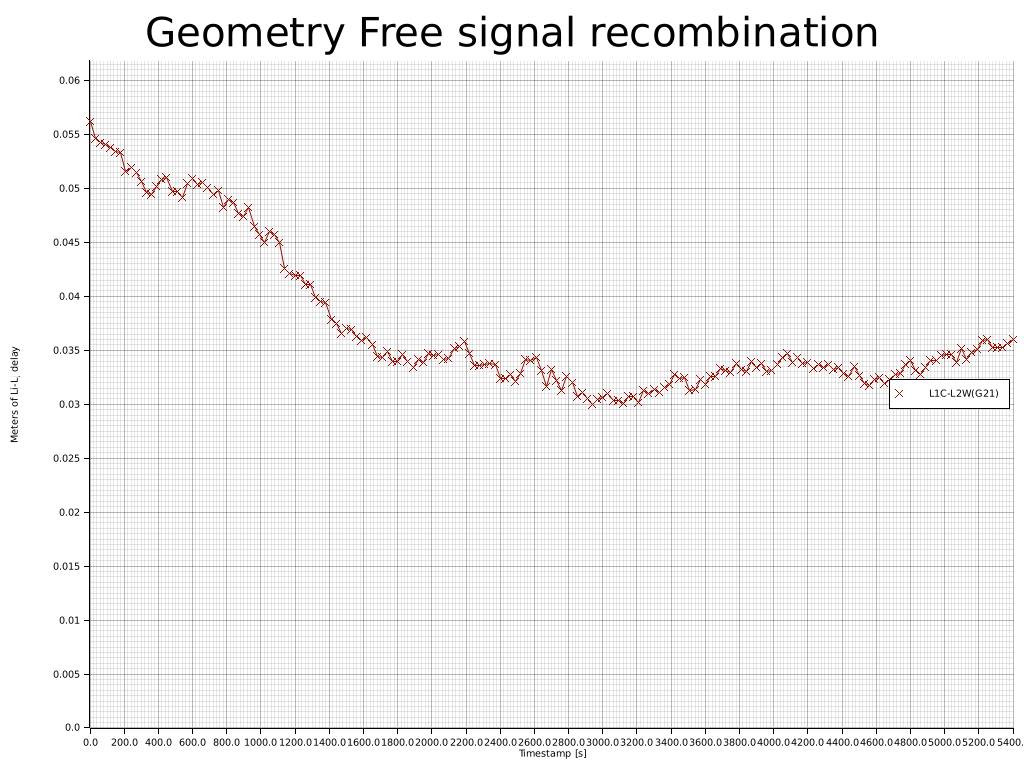
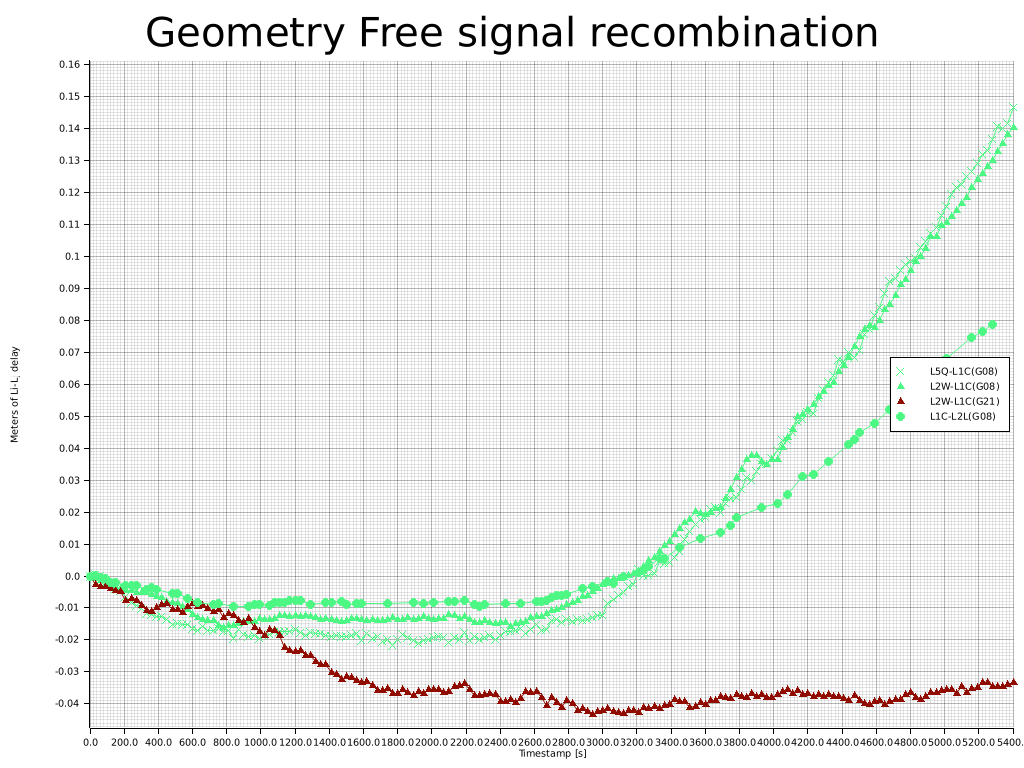
cli: documentation

Changed region(s): [[0.0625, 0.0625, 1.0, 0.9688]]

diff --git a/rinex-cli/README.md b/rinex-cli/README.md
@@ -51,7 +51,13 @@ Plots currently come in the form of PNG files.
 Efficient plotting is tied to efficient data filtering and resampling,
 because RINEX files contain a lot of data.
 
+Example of received signal power analysis:
+
 <img align="center" width="650" src="https://github.com/gwbres/rinex/blob/main/doc/plots/esbc00dnk_glo_ssi.png">
+
+Data is most of the time plotted against time.   
+Time axis represents epochs normalized to 1st epoch (starting a "0"),
+and expressed in seconds. 
 
 ## `teqc` operations
 
@@ -123,11 +129,6 @@ Advanced operations (RINEX processing) require a Navigaton Context to be provide
 RINEX record analysis is by default presented in JSON format, but
 graphical view can be activated with `--plot`. 
 Data is highly dependent on the file that was provided (`--fp`).
-
-Data is most of the time plotted against time. 
-Time axis represents epoch, normalized to the 1st epoch in the record
-and time axis is in seconds.  
-This will be improved in a near future, with proper date/epoch visualization.
 
 ### Readable JSON 
 

diff --git a/rinex-cli/doc/processing.md b/rinex-cli/doc/processing.md
@@ -47,7 +47,7 @@ Because data is not modified in place, and both results are exposed in seperate 
 
 A quick `--sv-epoch` shows that R01,R02,R08,R12,R19 for instance were seen for the first few hours.
 
-Let's focus on pseudo range DCBs first, with
+Analyze 1C/1P and 2C/2P with:
 
 ```bash
 rinex-cli --fp test_resources/CRNX/V3/ESBC00DNK_R_20201770000_01D_30S_MO.crx.gz \
@@ -62,7 +62,7 @@ rinex-cli --fp test_resources/CRNX/V3/ESBC00DNK_R_20201770000_01D_30S_MO.crx.gz 
 
 Like other recombinations, Pseudo Range DCBs reflects more noise than Phase data.
 
-Let's run the same comand focused on phase data:
+Let's run the same command on phase data this time:
 
 ```bash
 rinex-cli --fp test_resources/CRNX/V3/ESBC00DNK_R_20201770000_01D_30S_MO.crx.gz \

diff --git a/rinex-cli/doc/gnss-combination.md b/rinex-cli/doc/gnss-combination.md
@@ -94,11 +94,11 @@ If we focus the previous phase data (most accurate measurement):
 
 ```bash
 rinex-cli \
-    --fp test_resources/CRNX/V3/ESBC00DNK_R_20201770000_01D_30S_MO.crx \
-    --retain-sv G21 \
-    --retain-obs L1C,L2W \
+    --fp test_resources/CRNX/V3/ESBC00DNK_R_20201770000_01D_30S_MO.rnx \
+    --retain-sv G21,G08 \
+    --retain-obs L1C,L2L,L2W,L5Q \
     -w "2020-06-25 00:30:00 2020-06-25 02:00:00" \
-    --gf --plot
+    --gf
 ```
 
 <img align="center" width="650" src="https://github.com/gwbres/rinex/blob/main/doc/plots/esbc00dnk_gf_zoom.png">
